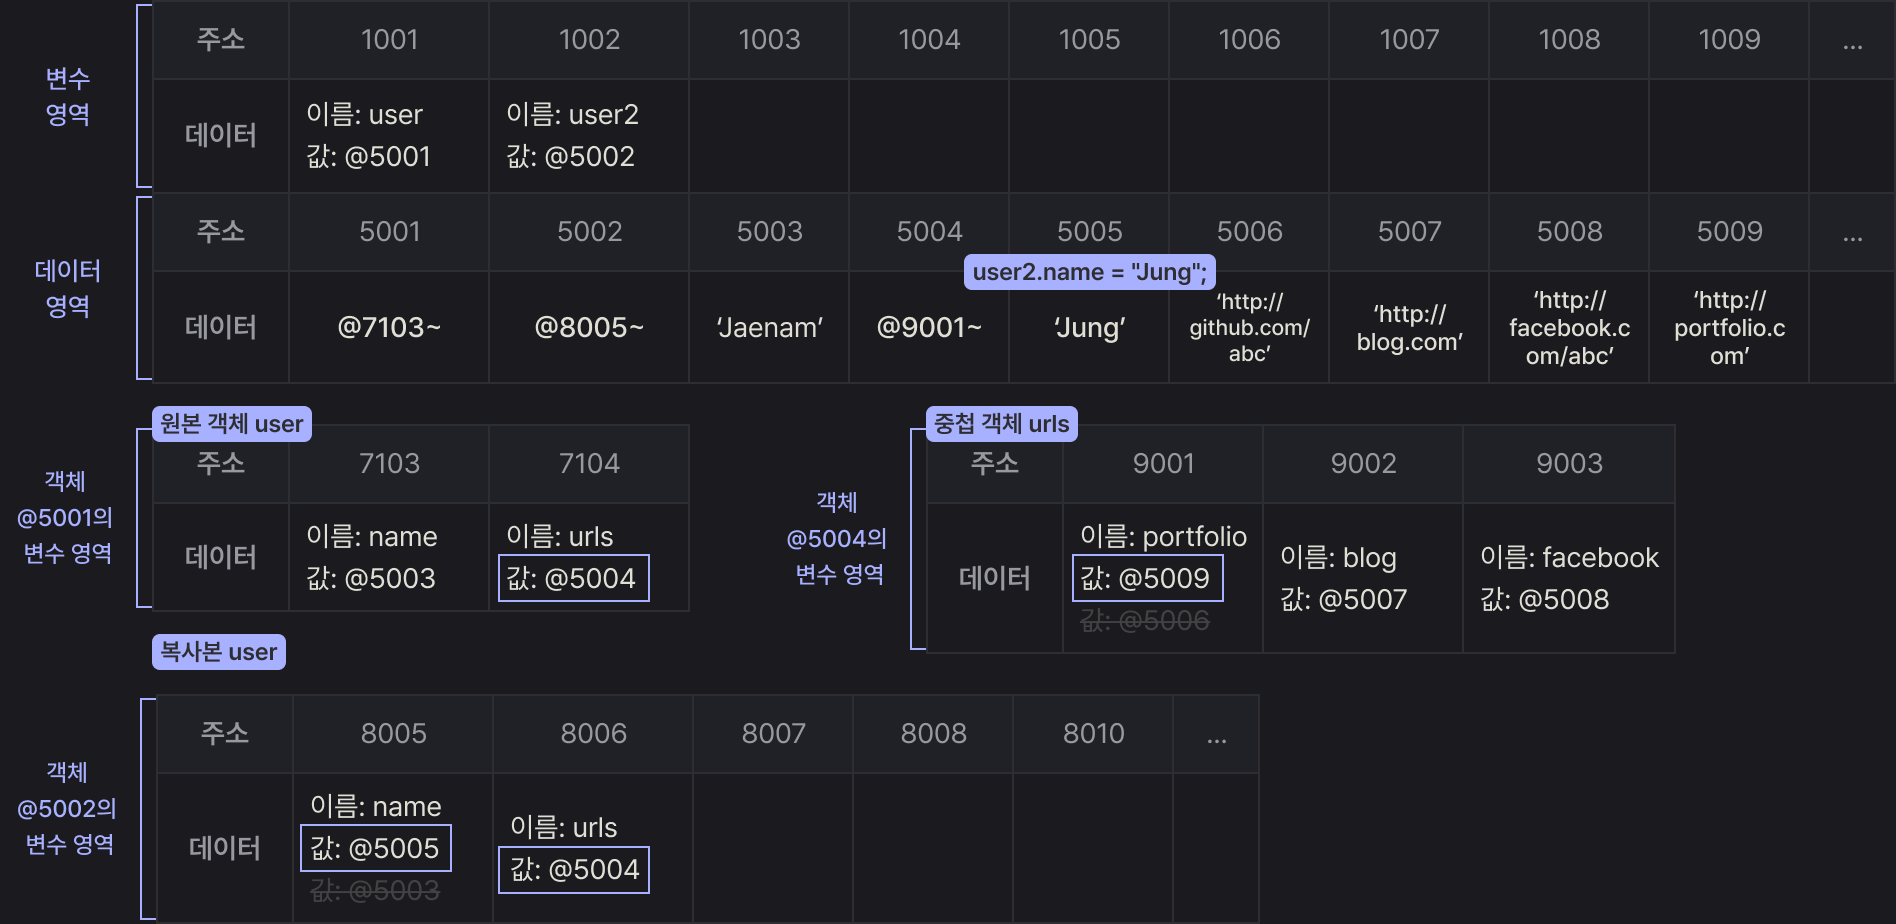
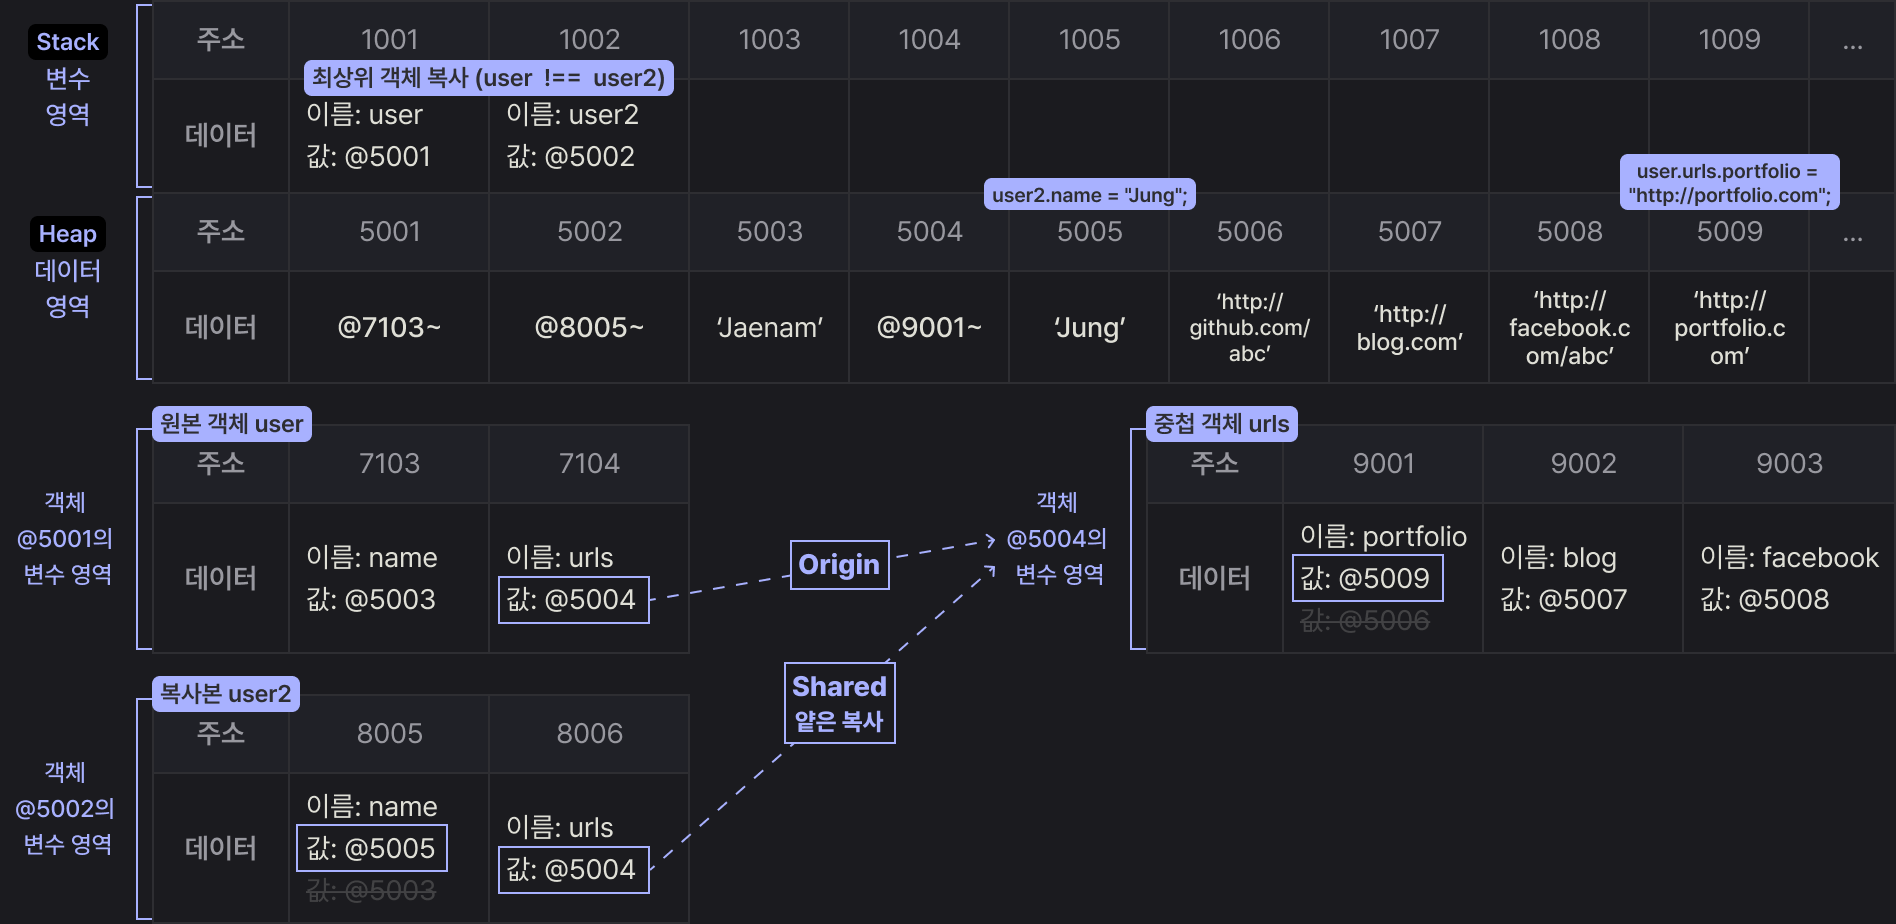
docs: small fix in presentation notes on immutable objects

diff --git a/docs/pages/javascript/corejs/cjs01.md b/docs/pages/javascript/corejs/cjs01.md
@@ -6,7 +6,9 @@
 
 :::
 
-[`📎 1-5. 불변 객체 발표`](../../OZ/corejs/corejs01.md)
+[🎨 Data Types_Figma](https://www.figma.com/design/BOdr3uWiyS9uGV62r3KHsz/CoreJS_images_hyebin?node-id=0-1&t=b3jvWaTeSHvfq60K-1)
+
+<!-- [`📎 1-5. 불변 객체 발표`](../../OZ/corejs/corejs01.md) -->
 
 <!-- [데이터 타입 종류](#데이터-타입의-종류) -->
 
@@ -641,6 +643,10 @@ console.log(user.urls.portfolio === user2.urls.portfolio); // false
 user2.urls.blog = "";
 console.log(user.urls.blog === user2.urls.blog); // false
 ```
+
+::: details 메모리 영역의 변화보기
+![중첩된 객체에 대한 깊은 복사](./images/cj1-13.png)
+:::
 
 - `user2 = copyObject(user)` → user의 1단계 프로퍼티(name, urls)만 얕게 복사한다.
 - `user2.urls = copyObject(user.urls)`→ 객체의 프로퍼티 중 값이 참조형 데이터(객체)인 경우 다시 그 내부의 프로퍼티들도 복사해야 한다.
